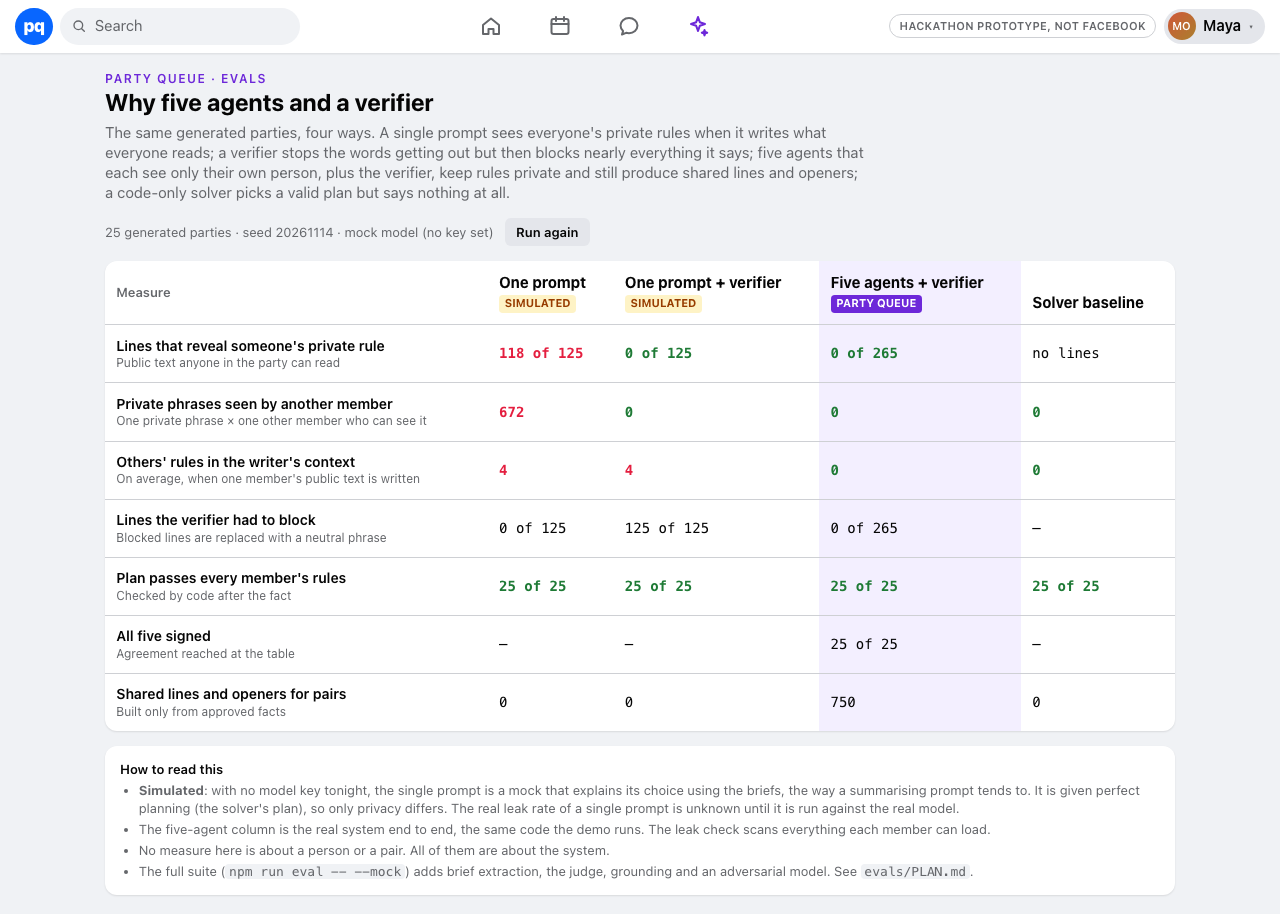
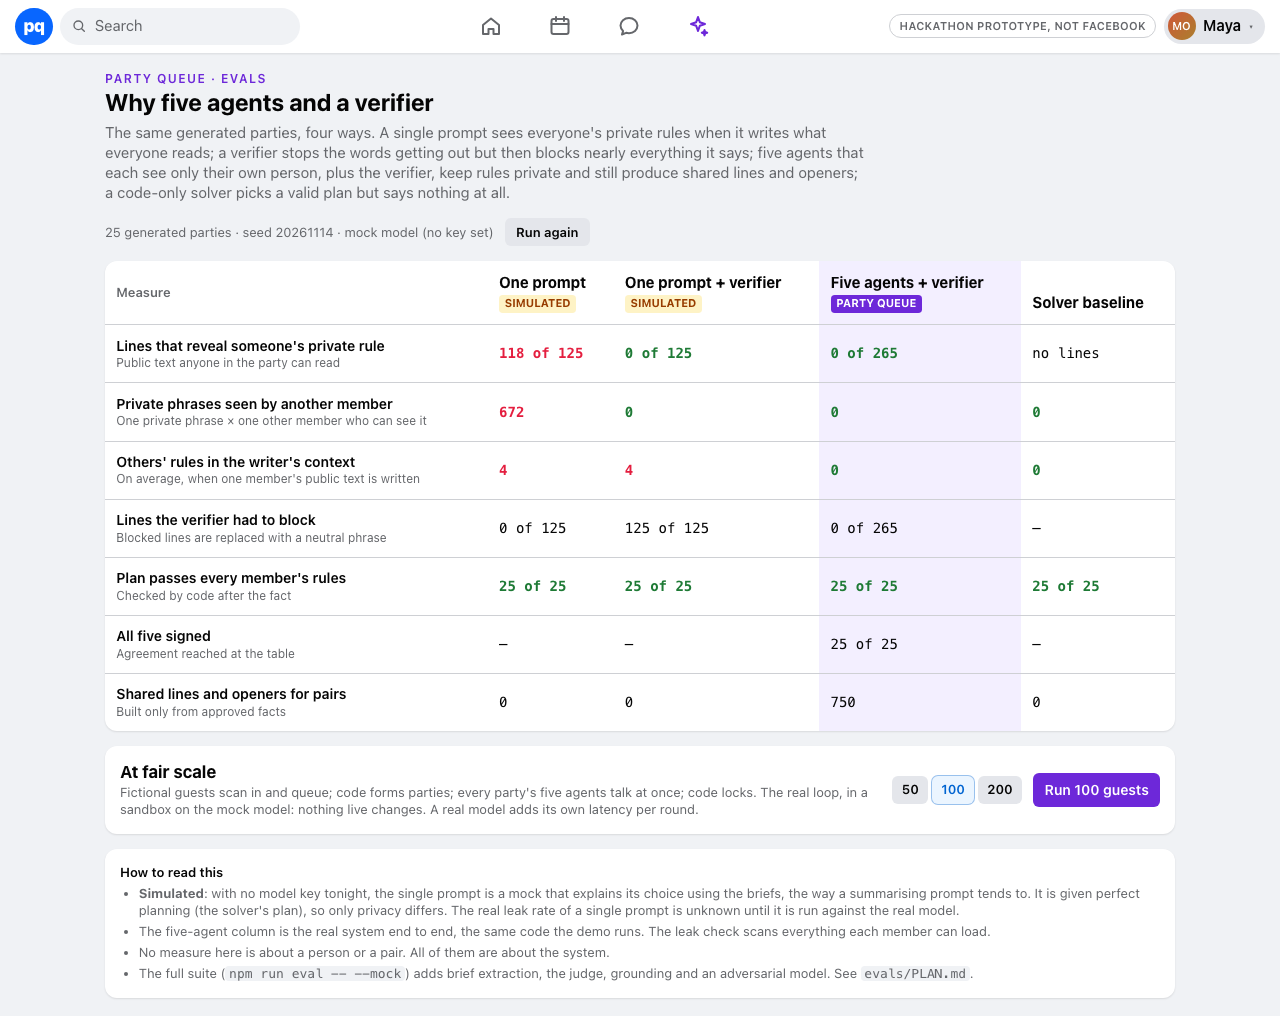
F30: At fair scale
/evals runs 50, 100 or 200 fictional guests through the real queue,
formation, table talk and lock at once, in a sandbox on the mock model,
and reports timing, lock-to-MATCH FOUND, invalid plans, leaks and real
calls across every party.

diff --git a/lib/evals/scale.ts b/lib/evals/scale.ts
@@ -1,0 +1,94 @@
+import { auditContext } from "@/lib/agents/audit";
+import { ownerChecks } from "@/lib/agents/judge";
+import { runParty } from "@/lib/agents/orchestrator";
+import { simulateGuests } from "@/lib/server/fair";
+import { secretView } from "@/lib/server/secret";
+import { runIsolated, store } from "@/lib/server/store";
+import { realCallsUsed, withMockModel } from "@/model/client";
+
+/**
+ * A whole fair through the real loop (F30). N fictional guests scan in and
+ * queue; code forms parties; every party's five agents talk at once; code
+ * locks; MATCH FOUND goes out. All in a sandbox store on the mock model:
+ * no real calls, nothing live touched. Then the same checks the demo makes,
+ * across every party: every locked plan passes every member's rules, and no
+ * member can load anyone else's private words.
+ */
+export interface ScaleResult {
+  guests: number;
+  parties: number;
+  locked: number;
+  noMatch: number;
+  waiting: number;
+  /** Wall-clock, ms: everyone joined and parties formed; then every table talk to its lock. */
+  formMs: number;
+  talkMs: number;
+  /** Server time from a party's lock to its MATCH FOUND going out. */
+  matchLagMs: { p50: number; p95: number; max: number };
+  agentTurns: number;
+  /** Locked plans that break someone's rule. Expected 0. */
+  invalidPlans: number;
+  /** Members checked with the "what the party knows" scan, and what it found. Expected 0. */
+  scanned: number;
+  leaks: number;
+  /** Prompts that held another member's private words. Expected 0. */
+  promptLeaks: number;
+  realCalls: number;
+}
+
+const pct = (xs: number[], p: number) => (xs.length ? [...xs].sort((a, b) => a - b)[Math.min(xs.length - 1, Math.floor((p / 100) * xs.length))]! : 0);
+
+export const MAX_GUESTS = 300;
+
+export async function runScale(n = 100): Promise<ScaleResult> {
+  const guests = Math.max(5, Math.min(MAX_GUESTS, Math.round(n)));
+  const callsBefore = realCallsUsed();
+  return withMockModel(() =>
+    runIsolated(async () => {
+      const t0 = Date.now();
+      await simulateGuests(guests, false);
+      const t1 = Date.now();
+      const s = store();
+      const ids = [...s.parties.keys()];
+      await Promise.all(ids.map((id) => runParty(id, { paceMs: 0 })));
+      const t2 = Date.now();
+
+      const parties = [...s.parties.values()];
+      const locked = parties.filter((p) => p.status === "locked");
+      const lockAt = new Map(s.events_log.filter((e) => e.type === "plan.locked").map((e) => [(e.payload as { partyId: string }).partyId, Date.parse(e.at)]));
+      const lags = s.events_log
+        .filter((e) => e.type === "match.found")
+        .map((e) => Date.parse(e.at) - (lockAt.get((e.payload as { partyId: string }).partyId) ?? Date.parse(e.at)));
+      let invalidPlans = 0;
+      let scanned = 0;
+      let leaks = 0;
+      for (const p of locked) {
+        const plan = s.plans.get(p.planId!)!;
+        if (p.memberIds.some((m) => !ownerChecks(p.id, plan, s.briefs.get(`brief-${m}`)!).every((c) => c.pass))) invalidPlans++;
+        for (const m of p.memberIds) {
+          const v = secretView(p.id, m);
+          if (!v) continue;
+          scanned++;
+          leaks += v.partyKnows.length;
+        }
+      }
+      const promptLeaks = [...s.prompts.entries()].reduce((sum, [k, pr]) => sum + auditContext(pr.user, k.split(":")[0]!, k.split(":")[1]!).others.length, 0);
+      return {
+        guests,
+        parties: parties.length,
+        locked: locked.length,
+        noMatch: parties.filter((p) => p.status === "failed").length,
+        waiting: s.queue.filter((e) => e.status === "waiting").length,
+        formMs: t1 - t0,
+        talkMs: t2 - t1,
+        matchLagMs: { p50: pct(lags, 50), p95: pct(lags, 95), max: lags.length ? Math.max(...lags) : 0 },
+        agentTurns: s.agentCalls.length,
+        invalidPlans,
+        scanned,
+        leaks,
+        promptLeaks,
+        realCalls: realCallsUsed() - callsBefore,
+      };
+    }),
+  );
+}

diff --git a/components/evals/ScaleBoard.tsx b/components/evals/ScaleBoard.tsx
@@ -1,0 +1,75 @@
+"use client";
+
+import { useState } from "react";
+import type { ScaleResult } from "@/lib/evals/scale";
+
+const SIZES = [50, 100, 200] as const;
+
+/** "At fair scale": a whole fair through the real loop, in a sandbox. */
+export function ScaleBoard() {
+  const [n, setN] = useState<(typeof SIZES)[number]>(100);
+  const [busy, setBusy] = useState(false);
+  const [r, setR] = useState<ScaleResult | null>(null);
+  const run = async () => {
+    setBusy(true);
+    const res = await fetch(`/api/evals/scale?n=${n}`, { method: "POST" });
+    setR(res.ok ? ((await res.json()) as ScaleResult) : null);
+    setBusy(false);
+  };
+  const zero = (x: number) => (x === 0 ? "text-[var(--color-on-ink)]" : "text-[#a8132d]");
+  const rows: [string, string, string?][] = r
+    ? [
+        ["Guests who scanned in and queued", `${r.guests}`],
+        ["Parties formed", `${r.parties} (${r.locked} locked${r.noMatch ? `, ${r.noMatch} no match` : ""}${r.waiting ? `, ${r.waiting} still waiting` : ""})`],
+        ["Join and form, all of them", `${r.formMs} ms`],
+        ["Every table talk, all at once, to its lock", `${r.talkMs} ms · ${r.agentTurns} agent turns`],
+        ["Lock to MATCH FOUND (server time)", `p50 ${r.matchLagMs.p50} ms · p95 ${r.matchLagMs.p95} ms · max ${r.matchLagMs.max} ms`],
+        ["Locked plans that break someone's rule", `${r.invalidPlans}`, zero(r.invalidPlans)],
+        [`Private words another member can load (${r.scanned} members scanned)`, `${r.leaks}`, zero(r.leaks)],
+        ["Prompts that held someone else's words", `${r.promptLeaks}`, zero(r.promptLeaks)],
+        ["Real model calls", `${r.realCalls}`],
+      ]
+    : [];
+  return (
+    <section className="mt-4 rounded-[12px] bg-white p-4 shadow-[var(--shadow-card)]" data-testid="scale">
+      <div className="flex flex-wrap items-center gap-3">
+        <div className="min-w-0 flex-1">
+          <h2 className="text-[17px] font-bold">At fair scale</h2>
+          <p className="text-[13px] text-[var(--color-ink-2)]">
+            Fictional guests scan in and queue; code forms parties; every party&apos;s five agents talk at once; code locks. The real loop, in a sandbox on the mock model: nothing live
+            changes. A real model adds its own latency per round.
+          </p>
+        </div>
+        <div className="flex items-center gap-1" role="group" aria-label="Guests">
+          {SIZES.map((x) => (
+            <button
+              key={x}
+              onClick={() => setN(x)}
+              aria-pressed={n === x}
+              className={`press rounded-[6px] px-2.5 py-1.5 text-[13px] font-semibold ${n === x ? "bg-[var(--color-on-bg)] text-[var(--color-on-ink)] ring-1 ring-[var(--color-on-ink)]/40" : "bg-[var(--color-btn-2)]"}`}
+            >
+              {x}
+            </button>
+          ))}
+        </div>
+        <button onClick={run} disabled={busy} data-testid="scale-run" className="press rounded-[6px] bg-[var(--color-pq)] px-3 py-2 text-[14px] font-semibold text-white disabled:opacity-60">
+          {busy ? "Running…" : `Run ${n} guests`}
+        </button>
+      </div>
+      {r && (
+        <table className="mt-3 w-full text-[14px]" data-testid="scale-result">
+          <tbody>
+            {rows.map(([k, v, cls]) => (
+              <tr key={k} className="border-t border-[var(--color-divider)]">
+                <th scope="row" className="py-1.5 pr-3 text-left font-normal text-[var(--color-ink-2)]">
+                  {k}
+                </th>
+                <td className={`py-1.5 text-right font-semibold tabular-nums ${cls ?? ""}`}>{v}</td>
+              </tr>
+            ))}
+          </tbody>
+        </table>
+      )}
+    </section>
+  );
+}

diff --git a/tests/scale.spec.ts b/tests/scale.spec.ts
@@ -1,0 +1,36 @@
+import AxeBuilder from "@axe-core/playwright";
+import { expect, test } from "@playwright/test";
+
+/* F30: a whole fair (100 guests) through the real loop in a sandbox; a live phone hears nothing. */
+
+test("at fair scale: 100 guests, 20 parties locked, no invalid plans, no leaks, nothing live", async ({ browser, baseURL, request, page }) => {
+  test.setTimeout(150_000);
+  await request.post("/api/demo/reset");
+  const ctx = await browser.newContext({ viewport: { width: 390, height: 844 } });
+  await ctx.addCookies([{ name: "pq_viewer", value: "maya", url: baseURL! }]);
+  const maya = await ctx.newPage();
+  await maya.goto("/events");
+  await expect(maya.locator("[data-live=on]")).toHaveCount(1, { timeout: 30_000 });
+
+  await page.setViewportSize({ width: 1280, height: 1000 });
+  await page.goto("/evals");
+  const box = page.getByTestId("scale");
+  await box.getByRole("button", { name: "100", exact: true }).click();
+  await page.getByTestId("scale-run").click();
+  const res = page.getByTestId("scale-result");
+  await expect(res).toBeVisible({ timeout: 60_000 });
+  await expect(res).toContainText("Parties formed20 (20 locked)");
+  await expect(res).toContainText("Locked plans that break someone's rule0");
+  await expect(res).toContainText("Private words another member can load (100 members scanned)0");
+  await expect(res).toContainText("Prompts that held someone else's words0");
+  await expect(res).toContainText("Real model calls0");
+  const axe = await new AxeBuilder({ page }).include("[data-testid=scale]").withTags(["wcag2a", "wcag2aa", "wcag21a", "wcag21aa"]).analyze();
+  expect(axe.violations.filter((v) => v.impact === "serious" || v.impact === "critical").map((v) => v.id)).toEqual([]);
+  await box.screenshot({ path: "shots/f30-scale.png" });
+
+  // Nothing live: no parties, and Maya's phone heard nothing.
+  const status = (await (await request.get("/api/demo/status")).json()) as { party: unknown };
+  expect(status.party ?? null).toBeNull();
+  await expect(maya.getByTestId("toast")).toHaveCount(0);
+  await ctx.close();
+});

diff --git a/tests/unit/scale.test.ts b/tests/unit/scale.test.ts
@@ -1,0 +1,26 @@
+import { describe, expect, it } from "vitest";
+import { MAX_GUESTS, runScale } from "@/lib/evals/scale";
+import { flag } from "@/lib/flags";
+import { resetStore, store } from "@/lib/server/store";
+
+describe("at fair scale (F30)", () => {
+  it("is on by default", () => expect(flag("SCALE_TEST")).toBe(true));
+
+  it("100 guests: 20 parties, all locked, every plan valid, nothing leaked, no real calls, and nothing live touched", async () => {
+    process.env.PQ_PACE_MS = "0";
+    const live = resetStore();
+    const before = { version: live.version, parties: live.parties.size, profiles: live.profiles.size, events: live.events_log.length };
+    const r = await runScale(100);
+    expect(r).toMatchObject({ guests: 100, parties: 20, locked: 20, noMatch: 0, waiting: 0, invalidPlans: 0, leaks: 0, promptLeaks: 0, realCalls: 0, scanned: 100 });
+    expect(r.agentTurns).toBeGreaterThanOrEqual(20 * 5 * 2);
+    expect(r.matchLagMs.max).toBeLessThan(1000);
+    const s = store();
+    expect({ version: s.version, parties: s.parties.size, profiles: s.profiles.size, events: s.events_log.length }).toEqual(before);
+  });
+
+  it("caps the size", async () => {
+    process.env.PQ_PACE_MS = "0";
+    expect((await runScale(2)).guests).toBe(5);
+    expect(MAX_GUESTS).toBe(300);
+  });
+});

diff --git a/lib/server/fair.ts b/lib/server/fair.ts
@@ -49,7 +49,7 @@ const SENTENCES = [
 const TAGS = Object.keys(TOPICS);
 
 /** Fictional guests "scan the QR" and join, so the host screen has something to count. */
-export async function simulateGuests(n: number): Promise<number> {
+export async function simulateGuests(n: number, startTalk = true): Promise<number> {
   const s = store();
   const start = [...s.profiles.keys()].filter((k) => k.startsWith("fair-")).length;
   for (let i = 0; i < n; i++) {
@@ -67,7 +67,7 @@ export async function simulateGuests(n: number): Promise<number> {
       ],
       consent: true,
     });
-    await joinQueue({ userId: p.id, eventId: FAIR_EVENT_ID, sentence: SENTENCES[k % SENTENCES.length]!, consentBridges: true });
+    await joinQueue({ userId: p.id, eventId: FAIR_EVENT_ID, sentence: SENTENCES[k % SENTENCES.length]!, consentBridges: true, startTalk });
   }
   return n;
 }

diff --git a/app/evals/page.tsx b/app/evals/page.tsx
@@ -1,6 +1,7 @@
 import type { Metadata } from "next";
 import { notFound } from "next/navigation";
 import { EvalsBoard } from "@/components/evals/EvalsBoard";
+import { ScaleBoard } from "@/components/evals/ScaleBoard";
 import { flag } from "@/lib/flags";
 
 export const metadata: Metadata = { title: "Evals" };
@@ -20,6 +21,7 @@ export default function EvalsPage() {
         </p>
       </div>
       <EvalsBoard />
+      {flag("SCALE_TEST") && <ScaleBoard />}
       <div className="mt-4 rounded-[12px] bg-white p-4 text-[13px] text-[var(--color-ink-2)] shadow-[var(--shadow-card)]">
         <div className="font-semibold text-[var(--color-ink)]">How to read this</div>
         <ul className="mt-1 list-disc space-y-1 pl-5">

diff --git a/app/api/evals/scale/route.ts b/app/api/evals/scale/route.ts
@@ -1,0 +1,12 @@
+import { NextResponse } from "next/server";
+import { runScale } from "@/lib/evals/scale";
+import { flag } from "@/lib/flags";
+
+export const dynamic = "force-dynamic";
+
+/** A whole fair in a sandbox: nothing live changes, no real model calls. */
+export async function POST(req: Request) {
+  if (!flag("SCALE_TEST")) return NextResponse.json({ error: "off" }, { status: 404 });
+  const n = Number(new URL(req.url).searchParams.get("n") ?? 100);
+  return NextResponse.json(await runScale(Number.isFinite(n) ? n : 100));
+}

diff --git a/lib/flags.ts b/lib/flags.ts
@@ -64,6 +64,8 @@ const DEFAULTS = {
   STAGE_PARTIES: true,
   /** F29: /how as a proof hub: every guarantee links to where it can be seen working, and names its test. */
   PROOF_HUB: true,
+  /** F30: /evals runs a whole fair (100 fictional guests) through the real loop in a sandbox and reports timing, validity and leaks. */
+  SCALE_TEST: true,
 } as const satisfies Record<string, boolean>;
 
 export type FlagName = keyof typeof DEFAULTS;

diff --git a/FEATURES.md b/FEATURES.md
@@ -58,6 +58,7 @@ hues (spread across the wheel, layout picked from a title hash).
 | 27 | Rogue model: switch every agent to misbehave, live, and watch code hold | The whole design claims safety doesn't depend on the model behaving. The eval proved it offline; now the room can see it: flip one switch, every agent says yes to everything and tries to tell the table its person's rules, and code still locks a plan that passes every rule with nothing leaked. | `ROGUE_MODE` | done (F27) |
 | 28 | Stage party switcher | The demo now makes several parties (Saturday's, Sunday's standing party, a no-match, the fair). Before, the projector jumped to whichever party sent the last trace, so with two talking at once it flickered between them. A judge watching should see the party the presenter is talking about. | `STAGE_PARTIES` | done (F28) |
 | 29 | `/how` as a proof hub | Judges hear a lot of claims. This page puts each of ours next to a button that opens the place in the app where it can be seen working, and the test that proves it, so a skeptical judge can check any one in under a minute. | `PROOF_HUB` | done (F29) |
+| 30 | At fair scale: a whole fair through the real loop | After five people, the next question is "and at an actual fair?" One button runs 100 fictional guests through the real queue, formation, table talk and lock, all at once, and checks every plan and every member's privacy, with numbers on screen. | `SCALE_TEST` | done (F30) |
 
 ## Done
 
@@ -92,3 +93,4 @@ hues (spread across the wheel, layout picked from a title hash).
 | F27 | **Rogue model** switch on `/demo` (a runtime setting, off by default). With it on, every agent's raw answer is rewritten the way a model that ignores its instructions might: yes to every plan at 5/5, and a public line that tells the table its person's rules ("Heads up, my person said: spending up to 40") while claiming to be a neutral phrase; in later rounds it signs and says them again. Nothing else changes: the same code checks every verdict and the same verifier every line. The stage shows a red "Rogue model · code still decides" pill, "Code overrode the model: Costs $45; limit is $40." on each bad yes, and "Verifier blocked Dev's line" for each leak attempt; the shared lane only ever shows "I'm in." The market still locks with five signatures. It never applies inside sandboxes (preflight, What if), and preflight notes when it's on. **Found and fixed with it:** "Reset everything" while a party was talking let the old talk keep writing traces, table lines and pair messages into the fresh store (it showed up as a flaky spec after preflight). Table talk, pair talk and the orchestrator now stop the moment their store is replaced. | `ROGUE_MODE` | `npm test -- rogue`: `Tests 5 passed` (off by default; with it on, the locked plan passes all five people's rules, exactly 6 verdicts overridden by code (Maya 3, Dev, Ana, Zoe 1 each), 5+ lines blocked, no table line carries the leak, every member's "what the party knows" empty, a private "Rogue model on" trace; off means no overrides or blocks; preflight's rehearsal still passes with a note; a reset mid-talk leaves the fresh store with no traces, table lines, events or pair messages). `npx playwright test tests/rogue.spec.ts`: switch from `/demo`, the stage pill, the market locked, 5+ "Verifier blocked", no leak on the shared lane, Maya's `data-leaks=0`: `✓ rogue model: … (4.4s)`. Full suite `npm run test:e2e`: `46 passed (4.3m)`. Gate: typecheck exit 0, `Tests 183 passed (183)`, demo path passed. `shots/f27-rogue-stage.png` |
 | F28 | **Party switcher on `/stage`**, shown once there's more than one party: "Follow new parties" (the old behaviour) or any party, newest first, labelled by night, place and status ("Sun · Ferry Building · talking", "Sat · Dolores Park · locked", "… · no match"). Pinning loads that party's board, puts `?party=` in the URL (a refresh keeps it), and ignores other parties' traces while still refreshing the list when another party forms, locks or finds no plan. Before this, the projector jumped to whichever party sent the latest trace, so two parties talking at once made it flicker. | `STAGE_PARTIES` | `npm test -- stageparties`: `Tests 3 passed` (no parties, then Saturday locked and Sunday's standing party forming, newest first with exact labels; the default view is the newest and any id loads; a no-match is labelled "no match"). `npx playwright test tests/stageparties.spec.ts`: no switcher with one party; Sunday forms and the stage follows it; pin "Sat · Dolores Park · locked": the URL carries the party, the board shows the locked market and doesn't move to Sunday while it talks; the list shows both; a reload keeps the pin; "Follow new parties" returns to Sunday: `✓ stage party switcher: … (6.3s)`. Every stage spec (`stage`, `audit`, `leak`, `whatif`, `rogue`, `nomatch`, `readiness`) plus `a11y` and `mobile` pass (13 passed). Gate: typecheck exit 0, `Tests 186 passed (186)`, demo path passed. `shots/f28-stage-pinned.png` |
 | F29 | **`/how` as a proof hub.** The guarantees move to `lib/how.ts` and grow from 7 to 11 (adding: your private words never reach another member; each prompt holds its own brief only; nobody is blamed when nothing fits; the server can forget your night; sandboxes never touch the live party). Each one now shows how it's enforced, the test file that proves it, and a **See it** link to where it works in the app: the shared lane and Try to leak it on `/stage`, Maya's secret on `/party`, Rogue model and Show a no-match on `/demo`, Why this? at `/door`, Forget my night on `/safety`. A unit test keeps every test path and page real. Off, the page shows the plain list. | `PROOF_HUB` | `npm test -- docs`: `Tests 6 passed` (adds: all 11 guarantees point at an existing page and test file). `npx playwright test tests/how.spec.ts`: 11 guarantees; "See it: Forget my night" opens `/safety`: `✓ how it works: … (0.9s)`; `mobile` and `a11y` (both viewports) pass with the new list. Gate: typecheck exit 0, `Tests 187 passed (187)`, demo path passed. `shots/f29-proof-hub.png` |
+| F30 | **At fair scale** on `/evals`: pick 50, 100 or 200 and run. Fictional fair guests scan in and queue (the same `simulateGuests` the host screen uses, with talk held), code forms parties, then every party's table talk runs at once to its lock, in a sandbox store on the mock model (`runIsolated` + `withMockModel`). The table reports guests, parties (locked, no match, still waiting), join-and-form time, all-talks-to-lock time with agent turns, lock-to-MATCH FOUND in server time (p50/p95/max), and the checks the demo makes, across every party: locked plans that break someone's rule, private words another member can load (every member scanned), prompts that held someone else's words, and real model calls. Measured: 100 guests → 20 parties, all locked, 200 agent turns, everything 0, in tens of milliseconds. The page says the timing is the mock's; a real model adds its own latency per round. | `SCALE_TEST` | `npm test -- scale`: `Tests 3 passed` (100 guests: 20 parties, 20 locked, 0 no match, 0 waiting, 0 invalid plans, 100 members scanned with 0 leaks, 0 prompt leaks, 0 real calls, 200+ agent turns, lag under a second; the live store's version, parties, profiles and events unchanged; size clamps to at least 5). `npx playwright test tests/scale.spec.ts`: run 100 from `/evals`, the rows above, axe clean, no live party afterwards, Maya's open phone got no toast: `✓ at fair scale: … (0.6s)`; `evals-page` still passes. Gate: typecheck exit 0, `Tests 190 passed (190)`, demo path passed. `shots/f30-scale.png` |

diff --git a/README.md b/README.md
@@ -119,6 +119,7 @@ live from `/demo` → Layers, or with `PQ_FLAG_<NAME>=0|1`.
 | `ROGUE_MODE` | **Rogue model** switch on `/demo` (off by default): every agent says yes to everything and tries to tell the table its person's rules; the stage shows code overriding each bad yes and the verifier blocking each line |
 | `STAGE_PARTIES` | a party switcher on `/stage` once there's more than one: "Sun · Ferry Building · talking"; pin one (kept in the URL) or follow new parties |
 | `PROOF_HUB` | `/how` as a proof hub: each of 11 guarantees links to where it can be seen working in the app and names its test |
+| `SCALE_TEST` | **At fair scale** on `/evals`: 50, 100 or 200 fictional guests through the real loop in a sandbox; parties, timing, lock-to-MATCH FOUND, invalid plans, leaks, real calls |
 | `NO_MATCH` | when no plan fits all five: everyone back at the front of the queue, nobody blamed, the same five never re-form; anyone whose own rules close every plan is told privately |
 
 ## Routes
@@ -164,7 +165,7 @@ inferred from a face; no score or label about a person or a pair.
 
 ```bash
 npm run typecheck
-npm test                       # 187 unit tests (vitest)
+npm test                       # 190 unit tests (vitest)
 npm run contract:check         # fixtures and events against the Zod contracts
 npm run eval -- --mock         # 7 eval suites
 npx playwright install chromium  # once, for the browser tests

diff --git a/docs/DEVPOST.md b/docs/DEVPOST.md
@@ -56,7 +56,7 @@ column is computed by scanning everything the other four can load, and it stays 
 - A code judge, a verifier for public lines, and pair talk where the model only picks fact ids.
 - A projector view with a scrubber that rebuilds the board (plans, signatures, the lock) at
   any moment of the replay.
-- Vitest (187 unit tests), Playwright (35+ end-to-end specs on a production build, including
+- Vitest (190 unit tests), Playwright (35+ end-to-end specs on a production build, including
   five phones at once, 390-pixel layouts and axe accessibility checks), and an eval harness.
 
 ## The leak test
@@ -86,6 +86,8 @@ real model run.
 ## Accomplishments
 
 - Zero private words in anything another member can load, across every generated party.
+- A whole fair in a sandbox: 100 fictional guests, 20 parties, all locked with every plan
+  valid and nothing leaked, in tens of milliseconds on the mock model (`/evals`, At fair scale).
 - One sentence to MATCH FOUND on five phones, about 5 ms after the lock.
 - Every feature is a layer behind a flag, switchable live from `/demo`.
 
